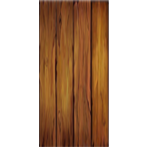
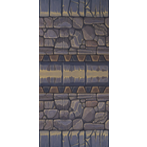
Avances en la estructuración del diseño

diff --git a/TheWeirdWay.py b/TheWeirdWay.py
@@ -8,11 +8,11 @@ print("=" * len(titulo) + "\n" + titulo + "\n" + "=" * len(titulo), "\n")
 # -- -- -- Variables e imagenes previas
 
 # Tamaños
-tamaño = 25
+tamaño = 26
 columnas = 40
 filas = 27
-ancho = tamaño * columnas
-alto = tamaño * filas
+ancho = (tamaño * columnas) - 6
+alto = (tamaño * filas) + 6
 
 # Colores
 c_fondo = "#1c1b20"
@@ -30,18 +30,29 @@ c_bg_press_win = "#ffd00d"
 root = Tk()
 root.title(titulo)
 root.resizable(False, False)
-root.geometry("{}x{}+{}+{}".format(ancho, alto, 245, 55))
+root.geometry("{}x{}+{}+{}".format(ancho - 6, alto, 245, 55))
 root.iconbitmap("LucioPalIco.ico")
 root.config(bg=c_fondo)
 
 # -- -- -- Imagenes
 
 logo_img = PhotoImage(file="Imagenes/Logo.png")
-fondo_img = PhotoImage(file="Imagenes/Fondo2.png")
-puente_x_img = PhotoImage(file="Imagenes/PuenteX.png")
-puente_y_img = PhotoImage(file="Imagenes/PuenteY.png")
-puente_xy_img = PhotoImage(file="Imagenes/PuenteXY.png")
-player_img = PhotoImage(file="Imagenes/Mr_Hat.png")
+fondo_img = PhotoImage(file="Imagenes/Fondo4.png")
+player_img = PhotoImage(file="Imagenes/Red_Skull2.png")
+
+puente_x_img = PhotoImage(file="Imagenes/PuenteX.png")  # X
+puente_y_img = PhotoImage(file="Imagenes/PuenteY.png")  # Y
+puente_xy_img = PhotoImage(file="Imagenes/PuenteXY.png")  # XY
+
+puente_ac_img = PhotoImage(file="Imagenes/PuenteAC.png")  # AC
+puente_ad_img = PhotoImage(file="Imagenes/PuenteAD.png")  # AD
+puente_bc_img = PhotoImage(file="Imagenes/PuenteBC.png")  # BC
+puente_bd_img = PhotoImage(file="Imagenes/PuenteBD.png")  # BD
+
+puente_abc_img = PhotoImage(file="Imagenes/PuenteABC.png")  # ABC
+puente_abd_img = PhotoImage(file="Imagenes/PuenteABD.png")  # ABD
+puente_acd_img = PhotoImage(file="Imagenes/PuenteACD.png")  # ACD
+puente_bcd_img = PhotoImage(file="Imagenes/PuenteBCD.png")  # BCD
 
 # -- -- -- Frame
 
@@ -79,8 +90,9 @@ class Menu:  # Menu principal
                                 command=lambda: self.cerrar_menu("continuar"))
 
         self.salir = Button(graficos, text="Salir", fg=c_fg, cursor="hand2",
-                            font=("Century Gothic", 20), bg=c_bg_fg_no, width=24,
-                            activeforeground=c_fg, activebackground=c_bg_press,
+                            font=("Century Gothic", 20), bg=c_bg_fg_no,
+                            width=24, activeforeground=c_fg,
+                            activebackground=c_bg_press,
                             command=lambda: self.cerrar_menu("salir"))
 
         self.logo2 = graficos.create_image(ancho/2, alto/2 - alto/4,
@@ -126,52 +138,52 @@ class Seleccion:  # Seleccionador de Niveles.
                              width=19, font=("Comic Sans MS", 15),
                              bg=c_bg_fg_no, fg=c_fg,
                              activebackground=c_bg_press,
-                             activeforeground=c_fg,
+                             activeforeground=c_fg, cursor="hand2",
                              command=lambda: self.cerrar_selector("0"))
         self.nivel_1 = Button(graficos, text="Nivel 1", width=17, height=2,
                               font=("Comic Sans MS", 20), bg=c_bg_fg_si,
                               fg=c_fg, activebackground=c_bg_press,
-                              activeforeground=c_fg,
+                              activeforeground=c_fg, cursor="hand2",
                               command=lambda: self.cerrar_selector("1"))
         self.nivel_2 = Button(graficos, text="Nivel 2", width=17, height=2,
                               font=("Comic Sans MS", 20), bg=c_bg_fg_no,
                               fg=c_fg, activebackground=c_bg_press,
-                              activeforeground=c_fg,
+                              activeforeground=c_fg, cursor="hand2",
                               command=lambda: self.cerrar_selector("2"))
         self.nivel_3 = Button(graficos, text="Nivel 3", width=17, height=2,
                               font=("Comic Sans MS", 20), bg=c_bg_fg_no,
                               fg=c_fg, activebackground=c_bg_press,
-                              activeforeground=c_fg,
+                              activeforeground=c_fg, cursor="hand2",
                               command=lambda: self.cerrar_selector("3"))
         self.nivel_4 = Button(graficos, text="Nivel 4", width=17, height=2,
                               font=("Comic Sans MS", 20), bg=c_bg_fg_no,
                               fg=c_fg, activebackground=c_bg_press,
-                              activeforeground=c_fg,
+                              activeforeground=c_fg, cursor="hand2",
                               command=lambda: self.cerrar_selector("4"))
         self.nivel_5 = Button(graficos, text="Nivel 5", width=17, height=2,
                               font=("Comic Sans MS", 20), bg=c_bg_fg_no,
                               fg=c_fg, activebackground=c_bg_press,
-                              activeforeground=c_fg,
+                              activeforeground=c_fg, cursor="hand2",
                               command=lambda: self.cerrar_selector("5"))
         self.nivel_6 = Button(graficos, text="Nivel 6", width=17, height=2,
                               font=("Comic Sans MS", 20), bg=c_bg_fg_no,
                               fg=c_fg, activebackground=c_bg_press,
-                              activeforeground=c_fg,
+                              activeforeground=c_fg, cursor="hand2",
                               command=lambda: self.cerrar_selector("6"))
         self.nivel_7 = Button(graficos, text="Nivel 7", width=17, height=2,
                               font=("Comic Sans MS", 20), bg=c_bg_fg_no,
                               fg=c_fg, activebackground=c_bg_press,
-                              activeforeground=c_fg,
+                              activeforeground=c_fg, cursor="hand2",
                               command=lambda: self.cerrar_selector("7"))
         self.nivel_8 = Button(graficos, text="Nivel 8", width=17, height=2,
                               font=("Comic Sans MS", 20), bg=c_bg_fg_no,
                               fg=c_fg, activebackground=c_bg_press,
-                              activeforeground=c_fg,
+                              activeforeground=c_fg, cursor="hand2",
                               command=lambda: self.cerrar_selector("8"))
         self.nivel_9 = Button(graficos, text="Nivel 9", width=17, height=2,
                               font=("Comic Sans MS", 20), bg=c_bg_fg_no,
                               fg=c_fg, activebackground=c_bg_press,
-                              activeforeground=c_fg,
+                              activeforeground=c_fg, cursor="hand2",
                               command=lambda: self.cerrar_selector("9"))
         # ---------------------------------------------------------------------
         # Fila 0
@@ -200,16 +212,31 @@ class Seleccion:  # Seleccionador de Niveles.
         else:  # Else para activar la clase Partída con método para el nivel.
             for lvl in ("1", "2", "3", "4", "5", "6", "7", "8", "9"):
                 if nivel == lvl:
-                    print("LLEGUE", lvl)
-                    exec("Partida.nivel_{}".format(lvl))
+                    exec('Partida().nivel_{0}("init")'.format(lvl))
                     break
 
 
-class Partida:
+class Partida:  # Ancho base = 76 * | Alto base = 71 *
 
     def __init__(self):
-        self.fondo = graficos.create_image(100, 125, image=fondo_img)
-        # self.player = graficos.create_image
+        self.fondo = graficos.create_image(ancho/2, alto/2, image=fondo_img)
+        self.player = graficos.create_image(45, 71*6,
+                                            image=player_img)
+
+    def nivel_1(self, act):  # "init" = Crear | "game" = Acción del juego
+        if act == "init":
+            self.puente1 = [graficos.create_image(76*2, 71*6,
+                                                  image=puente_ac_img), "ac"]
+            self.puente1 = [graficos.create_image(76*2, 71*4,
+                                                  image=puente_bd_img), "bd"]
+            self.puente1 = [graficos.create_image(76*2, 71*6,
+                                                  image=puente_ac_img), "ac"]
+            self.puente1 = [graficos.create_image(76*2, 71*6,
+                                                  image=puente_ac_img), "ac"]
+            self.puente1 = [graficos.create_image(76*2, 71*6,
+                                                  image=puente_ac_img), "ac"]
+
+        graficos.lift(self.player)
 
 
 jojer = Menu()
